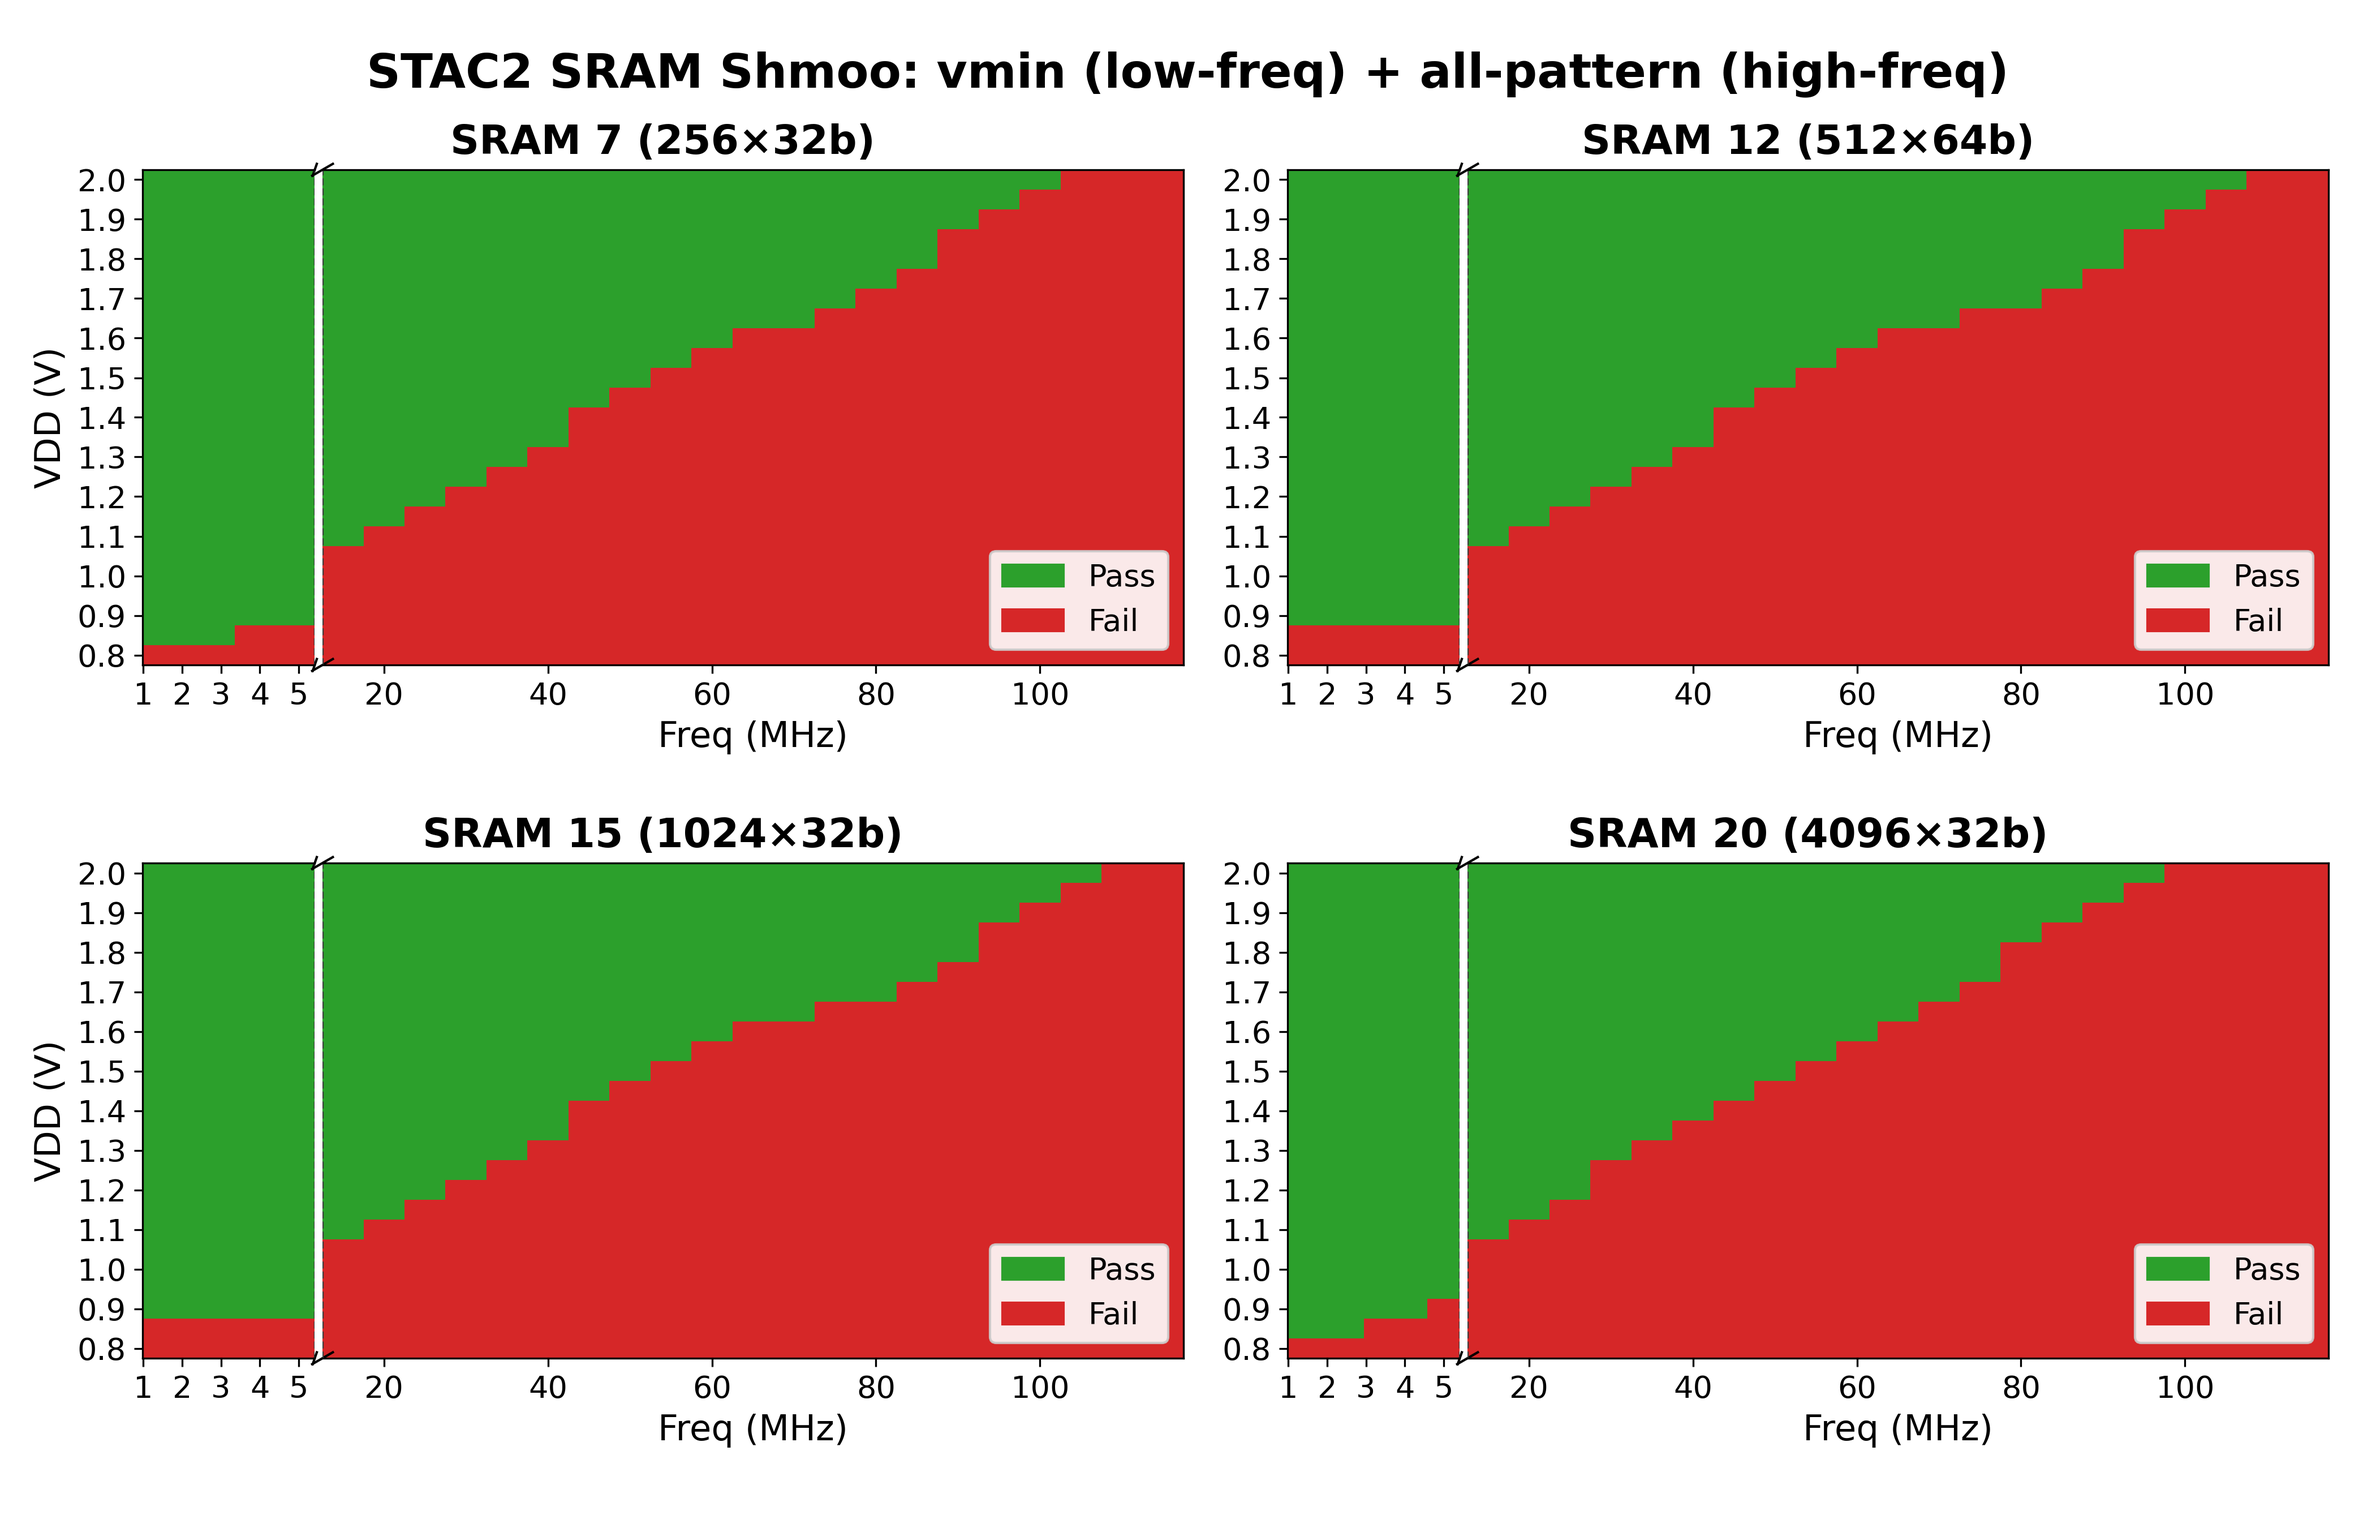
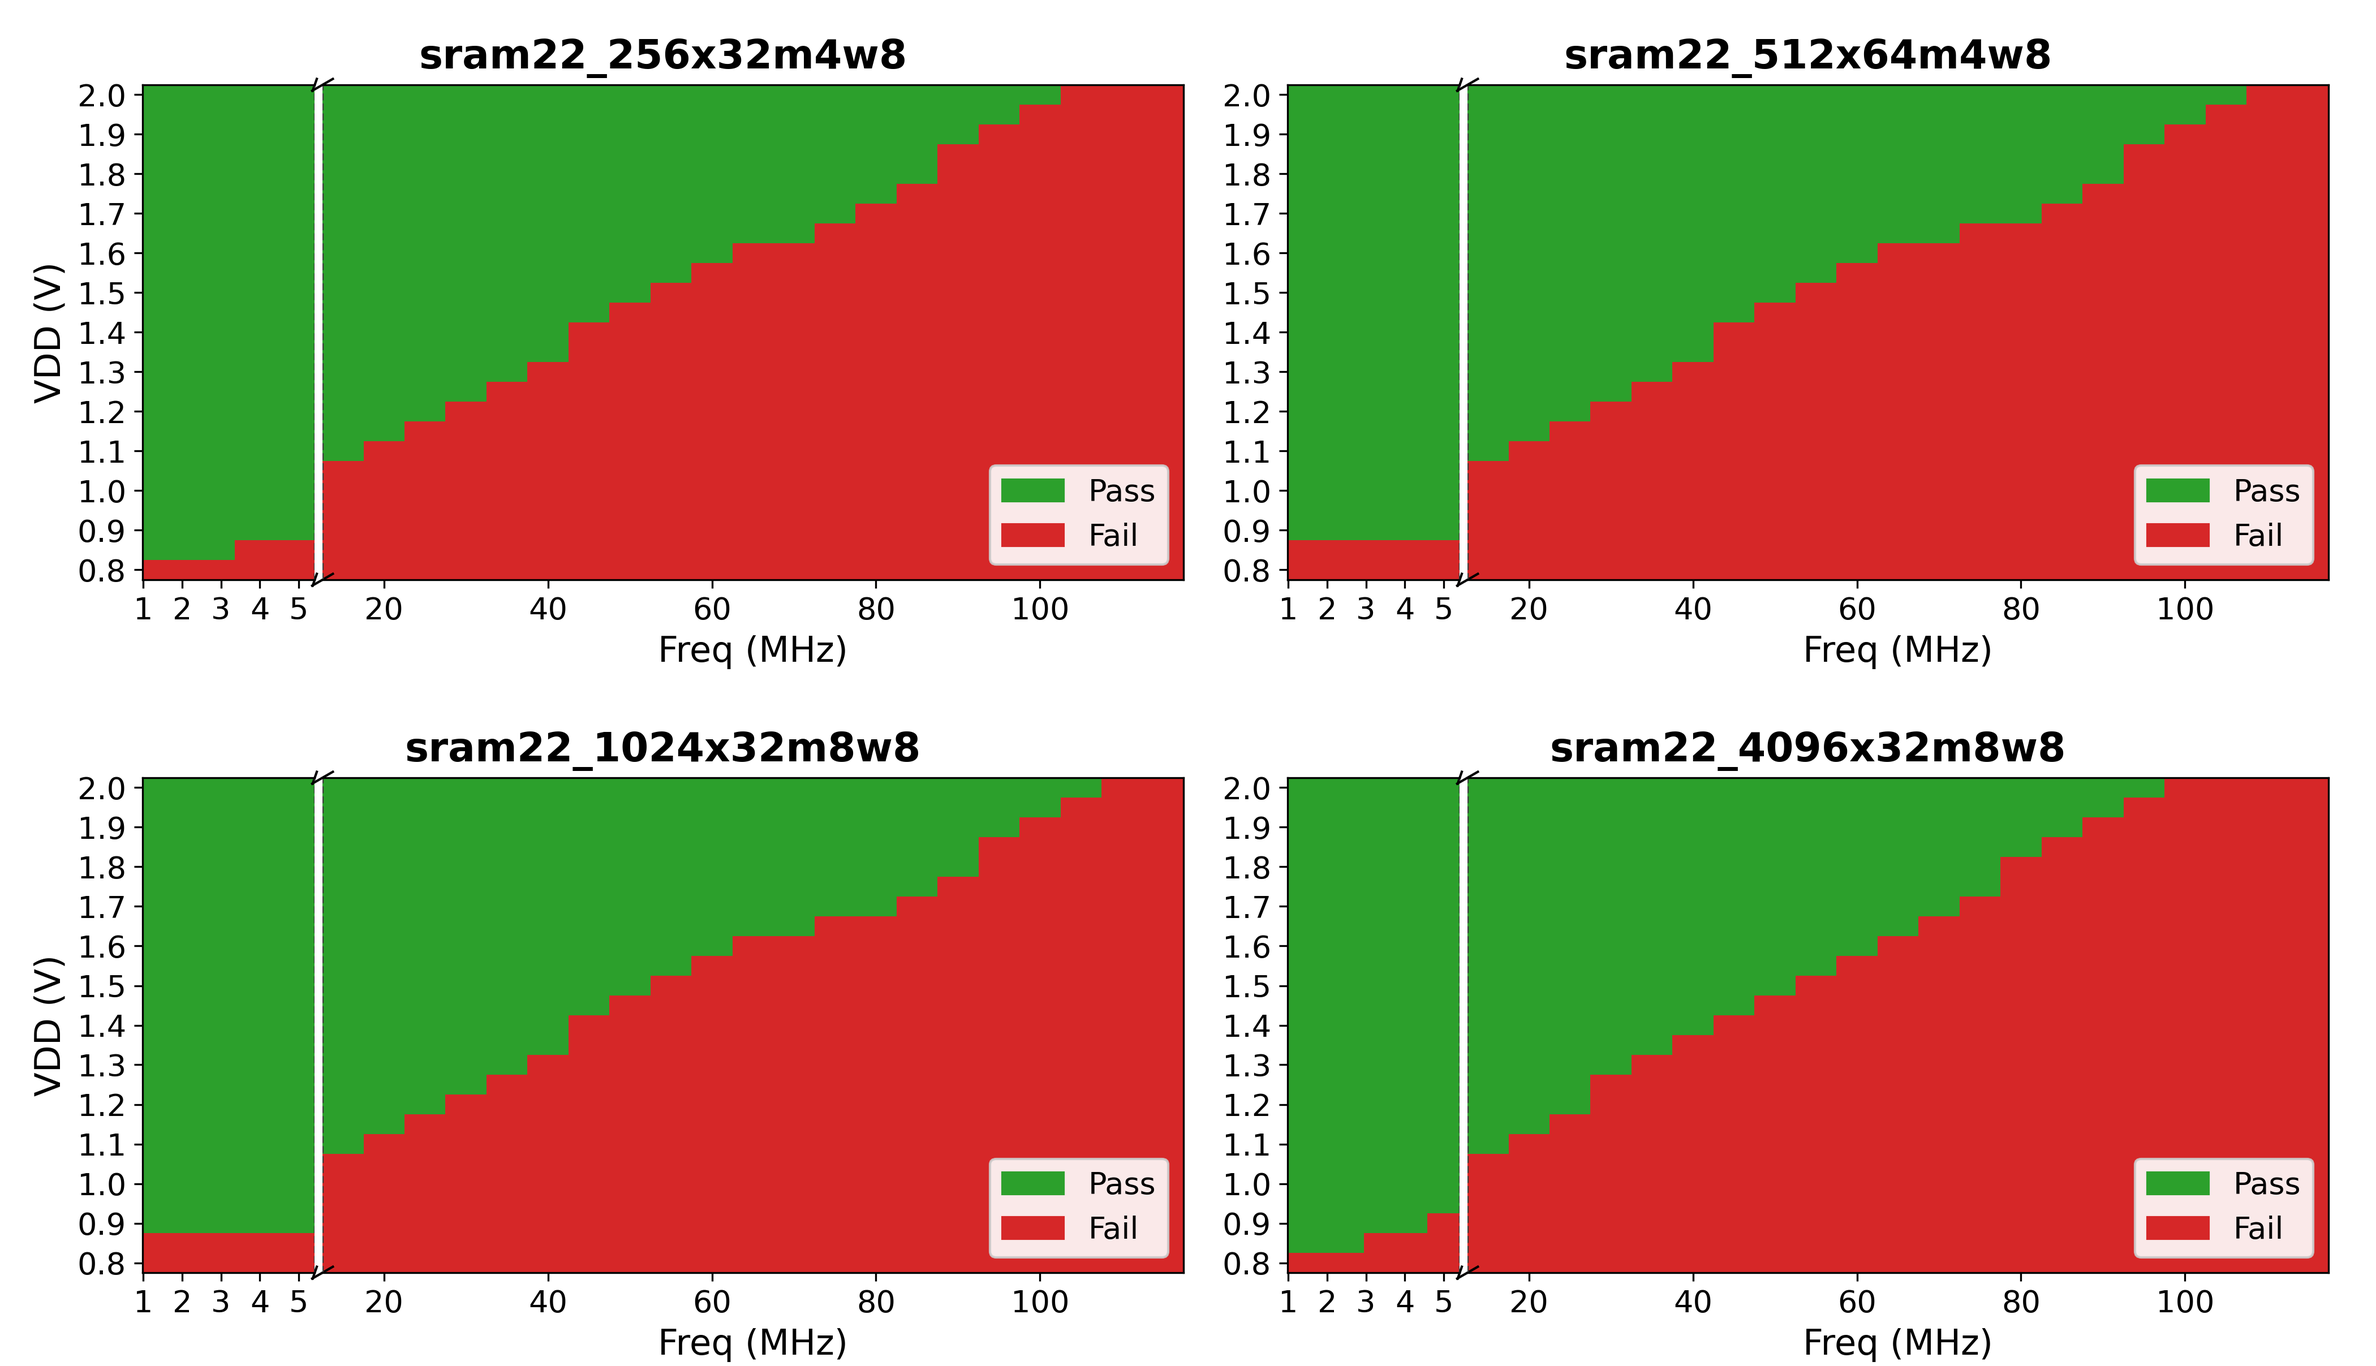
merged shmoo plot

Changed region(s): [[0.0, 0.0311, 0.9981, 0.4969], [0.0, 0.528, 0.9981, 0.9938], [0.3119, 0.6211, 0.4055, 0.6832]]

diff --git a/py/plot_shmoo_merged.py b/py/plot_shmoo_merged.py
@@ -22,7 +22,6 @@ from matplotlib.ticker import FixedLocator, MultipleLocator
 rcParams["font.family"] = "Arial"
 
 # Publication-scale font sizes.
-FS_SUPTITLE = 20
 FS_TITLE = 17
 FS_LABEL = 15
 FS_TICK = 13
@@ -36,15 +35,18 @@ LEGEND_HANDLES = [
     mpatches.Patch(color="#d62728", label="Fail"),
 ]
 
-# (depth, width) per SRAM id, mirrored from rs/src/tests.rs SRAM_SIZES.
+# (depth, width, mask_width, mux_ratio) per SRAM id, mirrored from
+# rs/src/tests.rs SRAM_SIZES.
 SRAM_SIZES = [
-    (64, 24), (64, 32), (128, 16), (128, 24), (128, 32),
-    (256, 8), (256, 16), (256, 32), (256, 64), (256, 128),
-    (512, 8), (512, 32), (512, 64), (512, 128),
-    (1024, 8), (1024, 32), (1024, 64),
-    (2048, 8), (2048, 32),
-    (4096, 8), (4096, 32),
-    (8192, 32),
+    (64, 24, 8, 4), (64, 32, 8, 4), (128, 16, 8, 4), (128, 24, 8, 4),
+    (128, 32, 8, 4),
+    (256, 8, 1, 8), (256, 16, 8, 8), (256, 32, 8, 4), (256, 64, 8, 4),
+    (256, 128, 8, 4),
+    (512, 8, 1, 8), (512, 32, 8, 4), (512, 64, 8, 4), (512, 128, 8, 4),
+    (1024, 8, 1, 8), (1024, 32, 8, 8), (1024, 64, 8, 4),
+    (2048, 8, 1, 8), (2048, 32, 8, 8),
+    (4096, 8, 1, 8), (4096, 32, 8, 8),
+    (8192, 32, 8, 8),
 ]
 
 
@@ -55,9 +57,9 @@ def load(path: Path) -> dict:
 
 def _sram_label(sram_id: int) -> str:
     if 0 <= sram_id < len(SRAM_SIZES):
-        depth, width = SRAM_SIZES[sram_id]
-        return f"SRAM {sram_id} ({depth}×{width}b)"
-    return f"SRAM {sram_id}"
+        depth, width, mask, mux = SRAM_SIZES[sram_id]
+        return f"sram22_{depth}x{width}m{mux}w{mask}"
+    return f"sram{sram_id}"
 
 
 def _sid_from_path(p: Path) -> int:
@@ -223,18 +225,14 @@ def main():
     nrows = (len(sram_ids) + ncols - 1) // ncols
 
     # Allocate fixed inch budgets so layout is consistent for a single SRAM and
-    # for the full 22-SRAM grid. title_h reserves vertical room for the suptitle
-    # plus per-SRAM titles; bot_h leaves room for x-axis labels below the last
-    # row.
+    # for the full grid. title_h reserves vertical room for per-SRAM titles;
+    # bot_h leaves room for x-axis labels below the last row.
     cell_h = 3.5
-    title_h = 1.0
-    bot_h = 1.0
+    title_h = 0.5
+    bot_h = 0.55
     fig_h = cell_h * nrows + title_h + bot_h
     fig_w = 7.0 * ncols
     fig = plt.figure(figsize=(fig_w, fig_h))
-    fig.suptitle("STAC2 SRAM Shmoo: vmin (low-freq) + all-pattern (high-freq)",
-                 fontsize=FS_SUPTITLE, fontweight="bold",
-                 y=1 - 0.3 * title_h / fig_h)
 
     outer = fig.add_gridspec(
         nrows, ncols,
